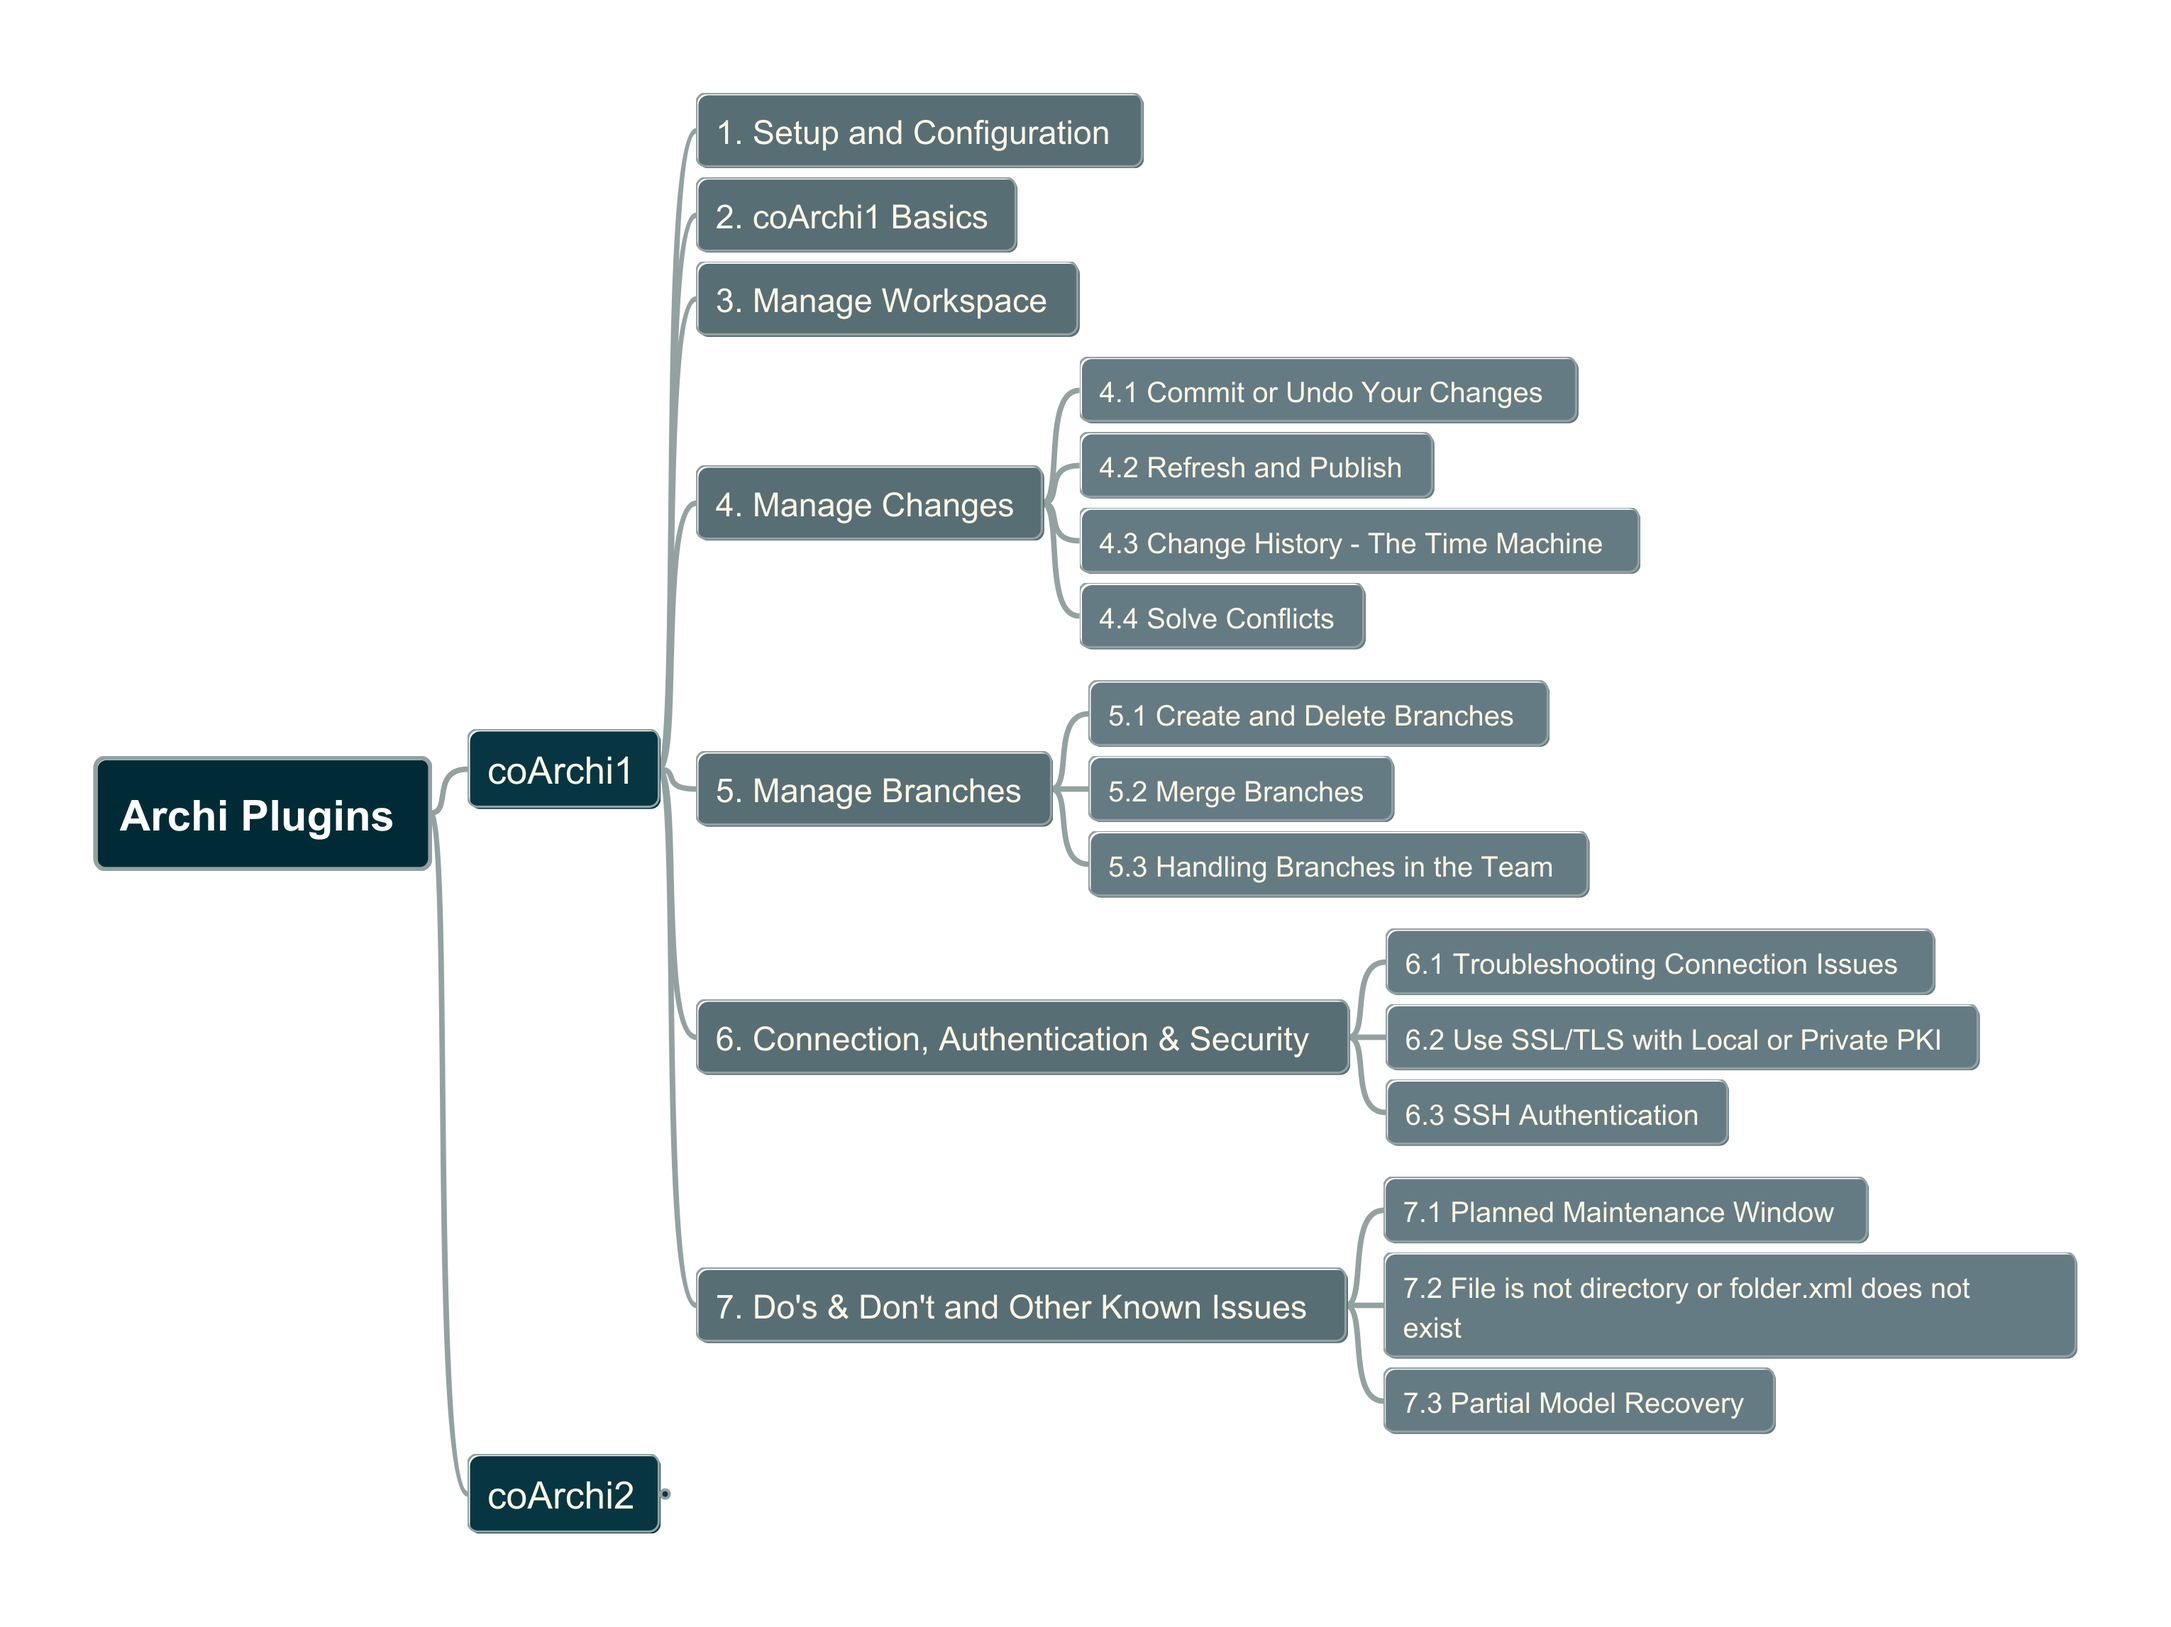
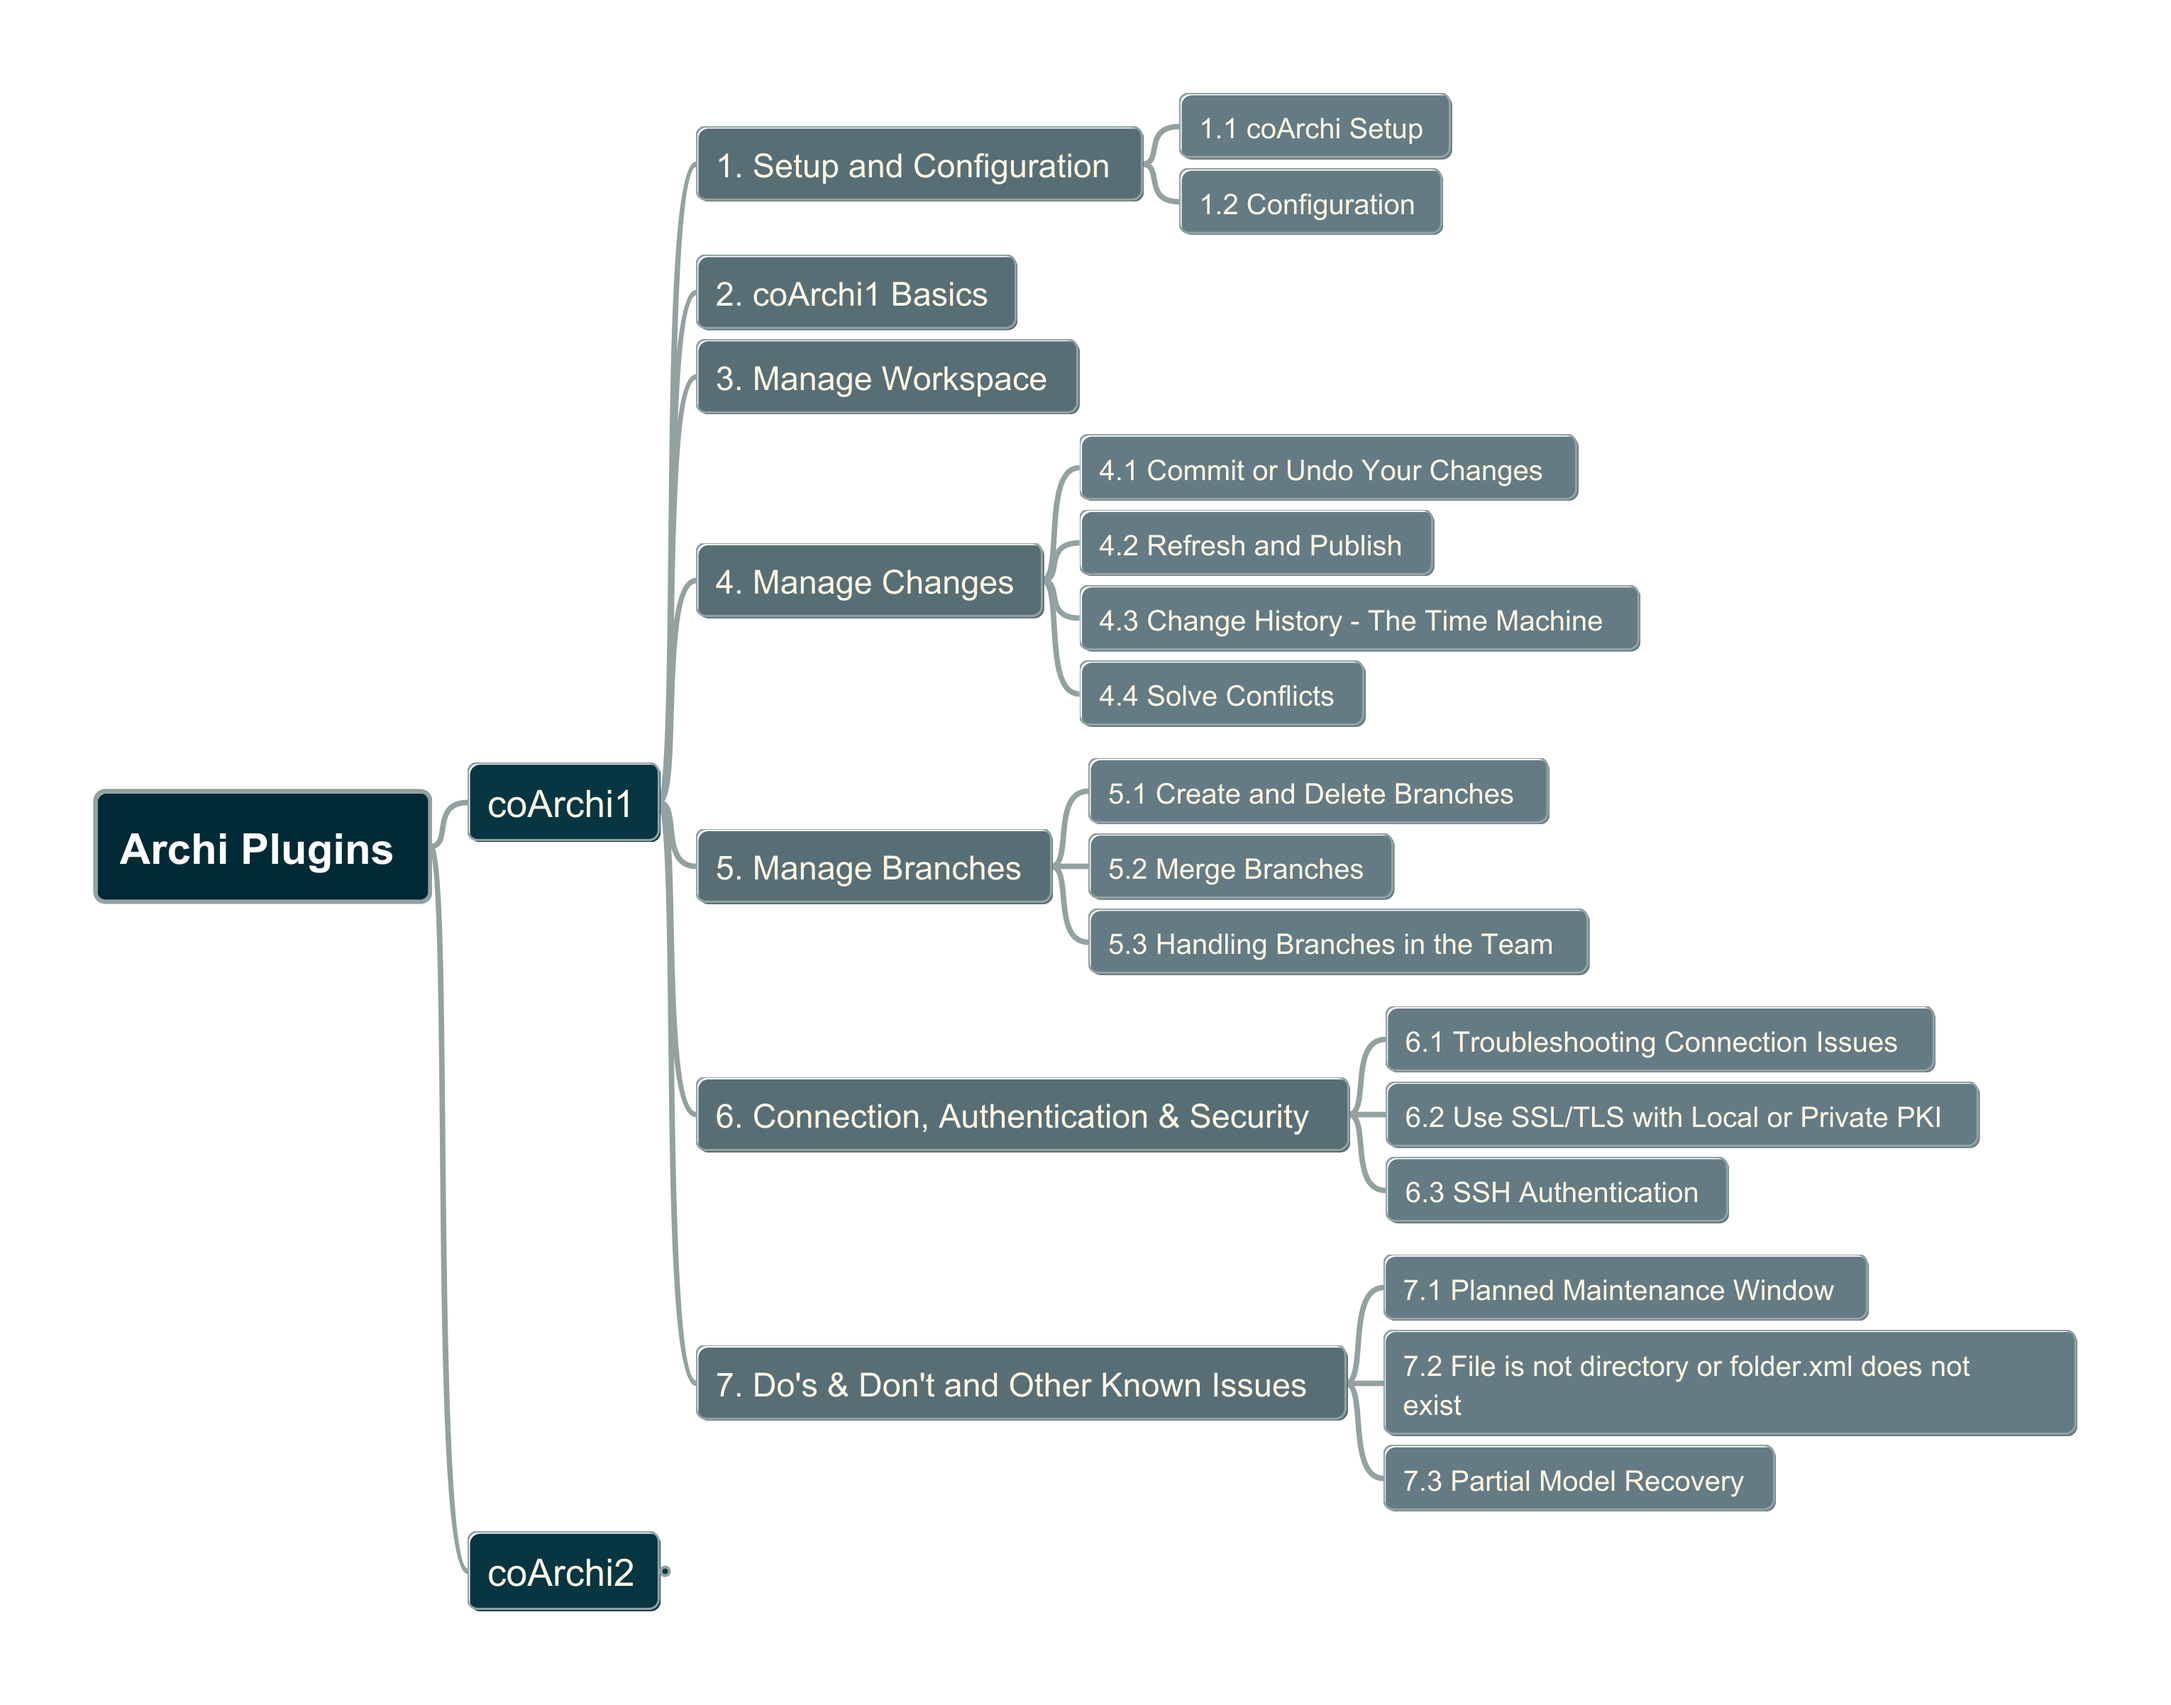
update coArchi1 TOC

Changed region(s): [[0.031, 0.031, 0.9624, 0.8976], [0.2173, 0.8666, 0.3105, 0.9595]]

diff --git a/Archi_Plugins/Archi_Plugins.mm b/Archi_Plugins/Archi_Plugins.mm
@@ -88,7 +88,10 @@
 </map_styles>
 </hook>
 <node TEXT="coArchi1" POSITION="bottom_or_right" ID="ID_602345500" CREATED="1772271614382" MODIFIED="1772271622247">
-<node TEXT="1. Setup and Configuration" ID="ID_1532517907" CREATED="1772271628908" MODIFIED="1772271648199"/>
+<node TEXT="1. Setup and Configuration" ID="ID_1532517907" CREATED="1772271628908" MODIFIED="1772271648199">
+<node TEXT="1.1 coArchi Setup" ID="ID_546838787" CREATED="1772286136454" MODIFIED="1772286141843"/>
+<node TEXT="1.2 Configuration" ID="ID_1349806540" CREATED="1772286142063" MODIFIED="1772286147786"/>
+</node>
 <node TEXT="2. coArchi1 Basics" ID="ID_1942345397" CREATED="1772271648348" MODIFIED="1772271656647"/>
 <node TEXT="3. Manage Workspace" ID="ID_968489632" CREATED="1772271657172" MODIFIED="1772271662697"/>
 <node TEXT="4. Manage Changes" ID="ID_1906117691" CREATED="1772271665772" MODIFIED="1772271670053">
